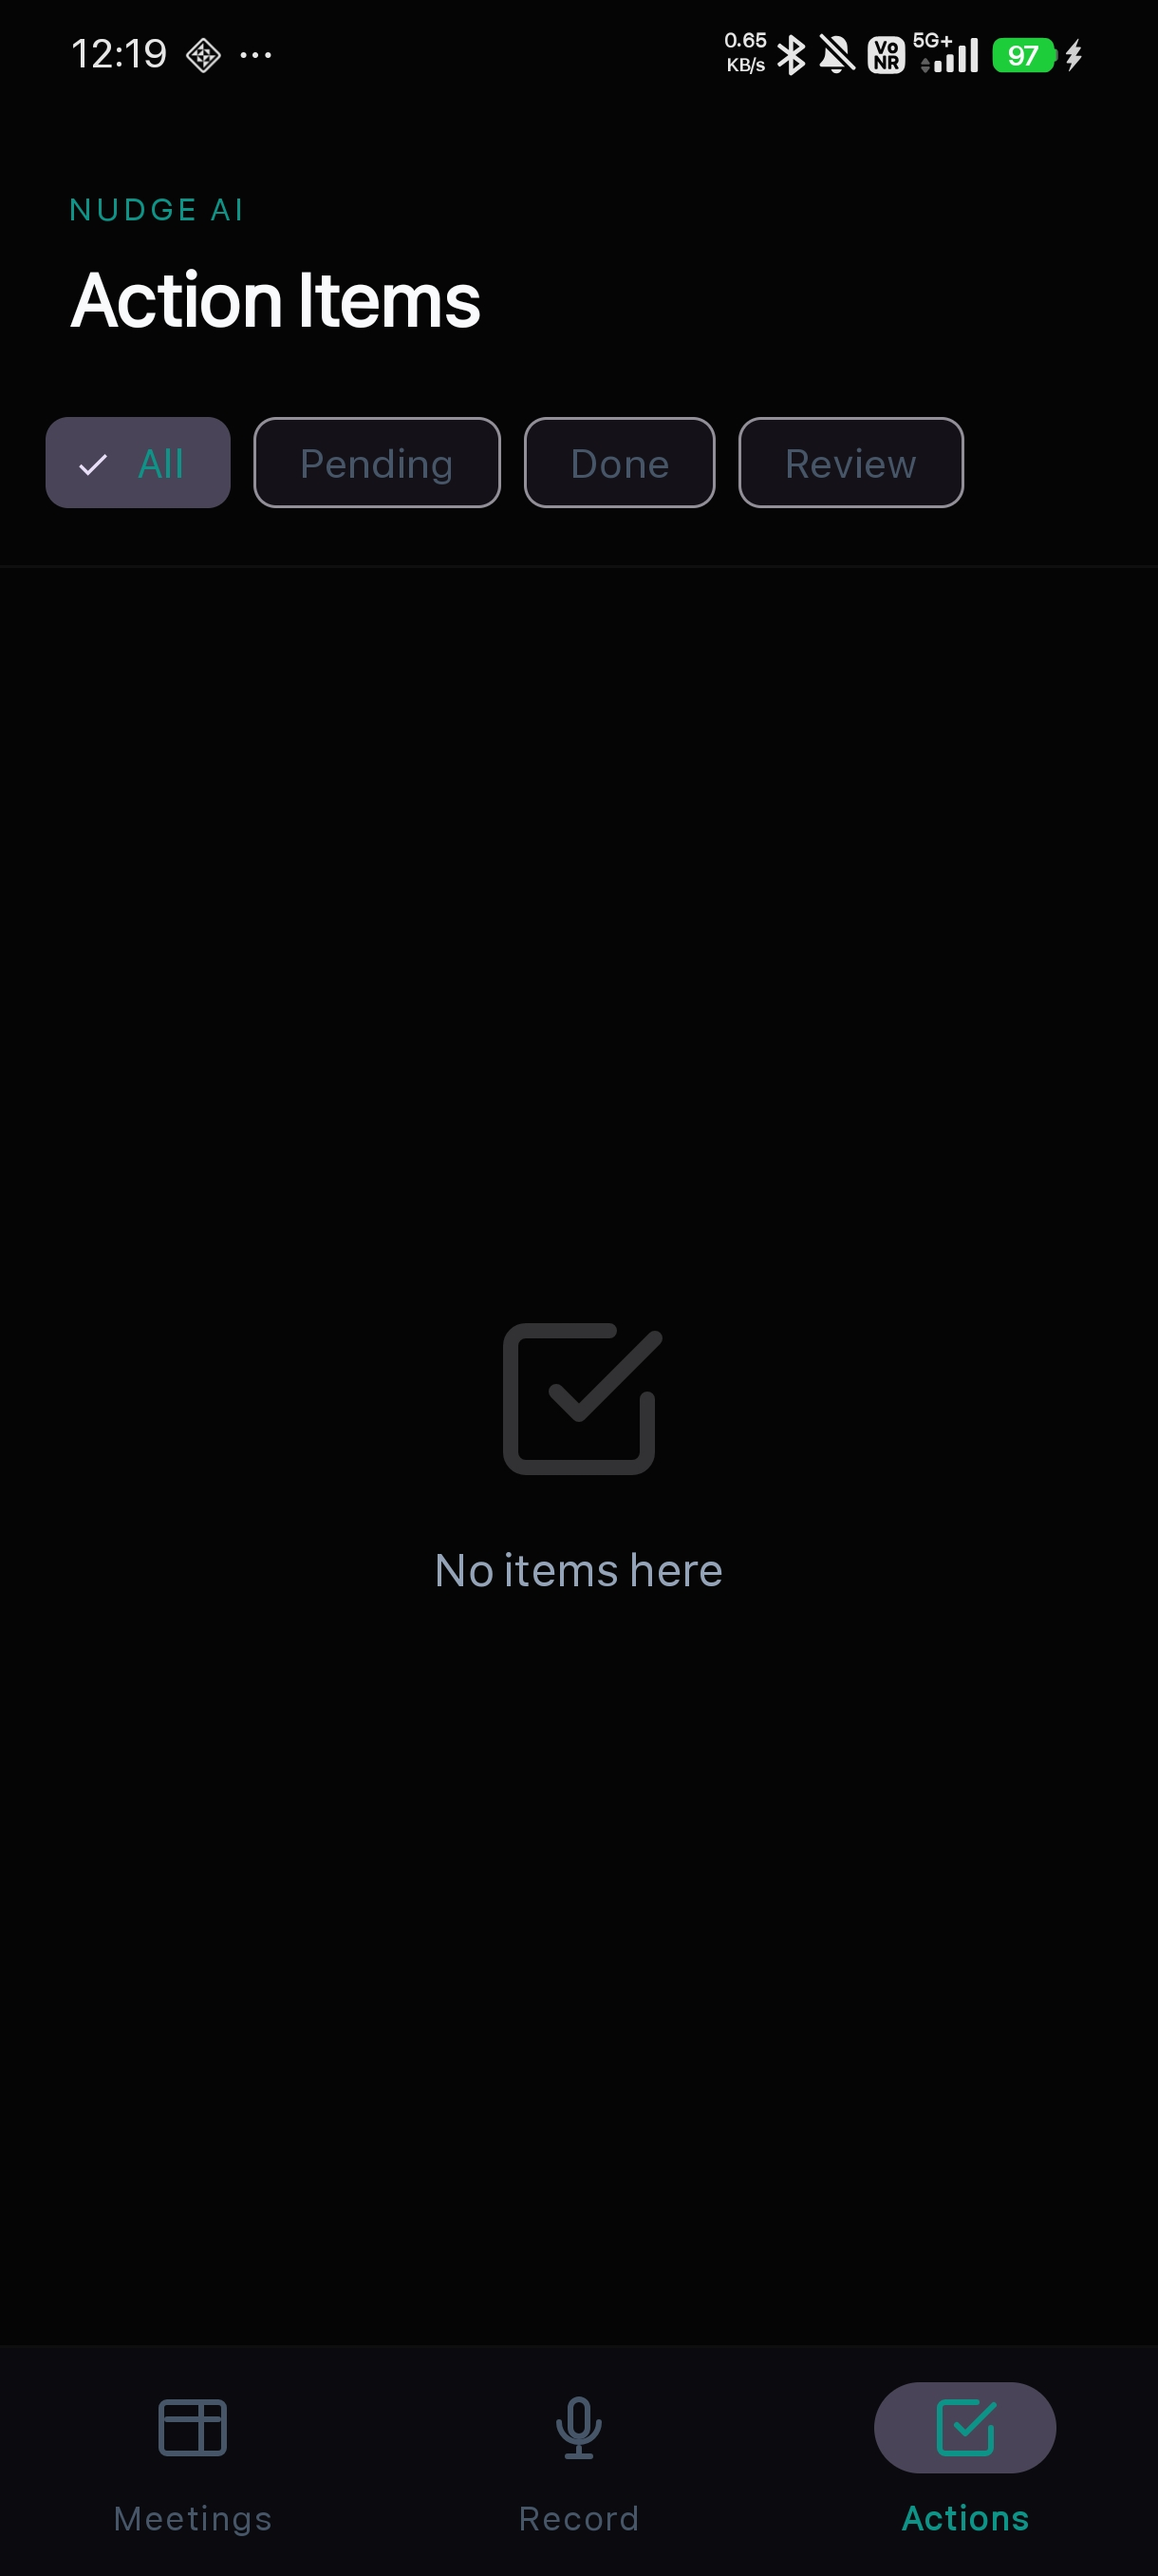
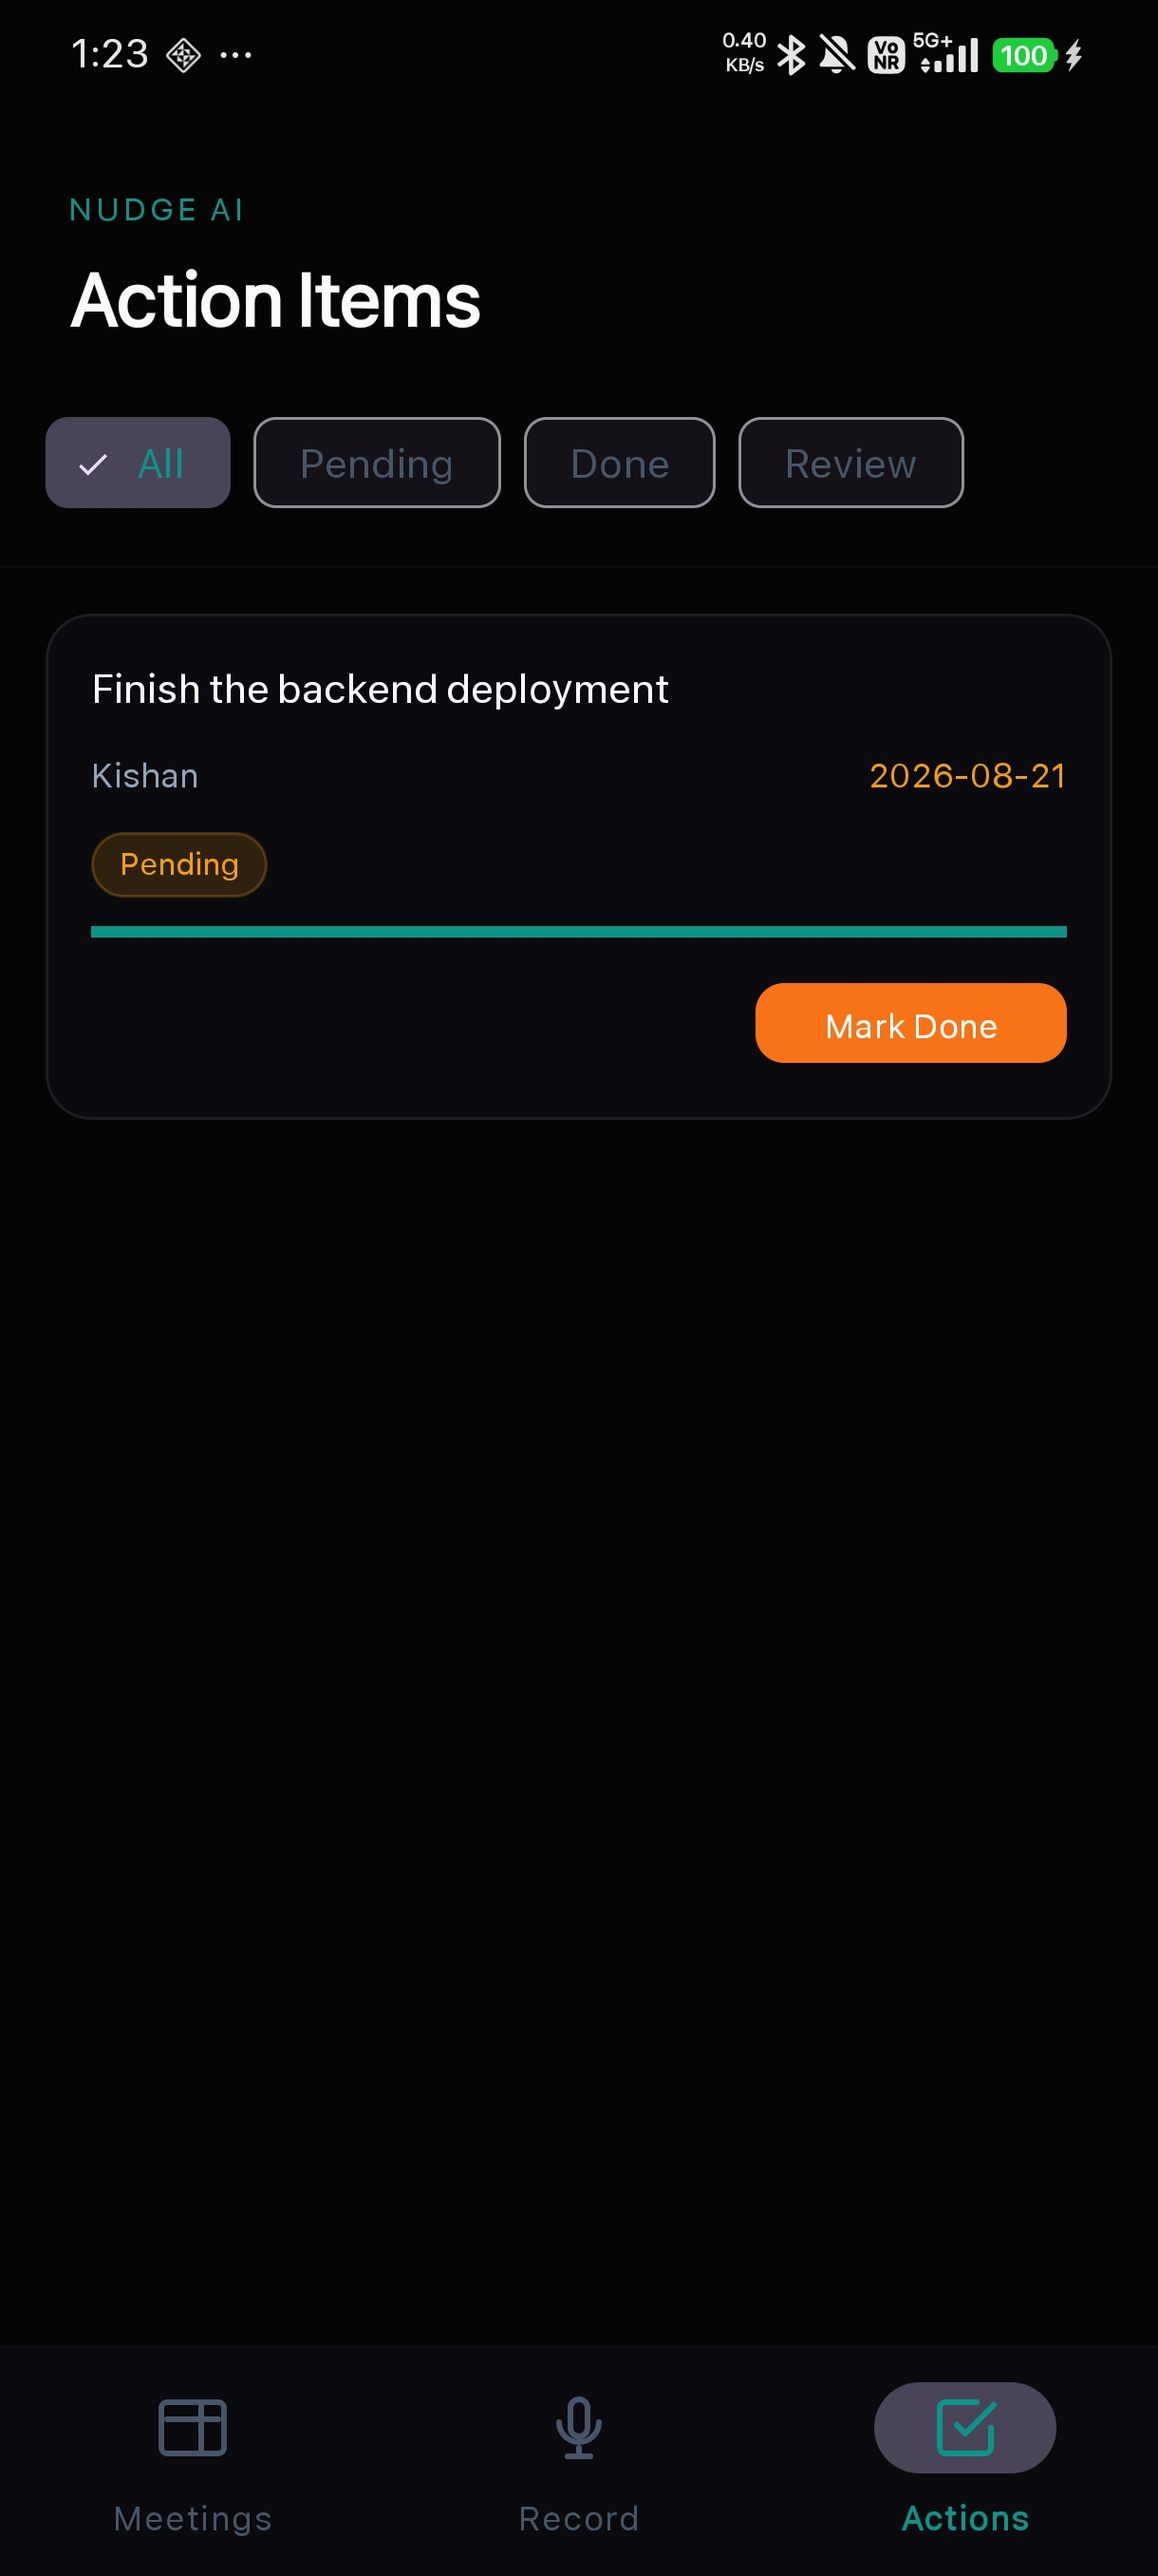
docs: update README with 4-screenshot mobile showcase and new capabilities
- Replaced empty state screenshot with live Meeting Intelligence and Action Items screens
- Documented Android Foreground Audio Recording Service and Home Screen AppWidget
- Documented meeting title customization and updated API endpoints
- Updated tech stack badges to reflect GPT-OSS-120B multi-agent LLM

diff --git a/README.md b/README.md
@@ -14,9 +14,10 @@
   </a>
   <br/><br/>
 
-  <img src="https://img.shields.io/badge/Android-Kotlin%20%7C%20WorkManager-3DDC84?style=flat-square&logo=android" />
+  <img src="https://img.shields.io/badge/Android-Kotlin%20%7C%20Foreground%20Service-3DDC84?style=flat-square&logo=android" />
+  <img src="https://img.shields.io/badge/AppWidget-Home%20Screen%20Quick%20Record-00A896?style=flat-square" />
   <img src="https://img.shields.io/badge/Backend-FastAPI%20%7C%20Python%203.11-009688?style=flat-square&logo=fastapi" />
-  <img src="https://img.shields.io/badge/AI%20Engine-LangGraph%20%7C%20Groq%20Llama%203.3-6366F1?style=flat-square" />
+  <img src="https://img.shields.io/badge/AI%20Engine-LangGraph%20%7C%20Groq%20GPT--OSS--120B-6366F1?style=flat-square" />
   <img src="https://img.shields.io/badge/STT-Groq%20Whisper%20Large%20v3-00A896?style=flat-square" />
   <img src="https://img.shields.io/badge/Database-MongoDB%20Atlas-47A248?style=flat-square&logo=mongodb" />
   <img src="https://img.shields.io/badge/Frontend-React%20%7C%20Vite-61DAFB?style=flat-square&logo=react" />
@@ -30,9 +31,9 @@
 
 ## Mobile Application
 
-| Meetings List | Audio Recording | Action Items | Empty State |
+| Meetings Dashboard | Audio Recording | Meeting Intelligence | Action Items Tracker |
 |:---:|:---:|:---:|:---:|
-| <img src="screenshots/home.png" width="220" alt="Meetings List" /> | <img src="screenshots/record.png" width="220" alt="Record Meeting" /> | <img src="screenshots/action_items.png" width="220" alt="Action Items" /> | <img src="screenshots/home_empty.png" width="220" alt="Empty State" /> |
+| <img src="screenshots/home.png" width="220" alt="Meetings Dashboard" /> | <img src="screenshots/record.png" width="220" alt="Record Meeting" /> | <img src="screenshots/detail.png" width="220" alt="Meeting Intelligence" /> | <img src="screenshots/action_items.png" width="220" alt="Action Items Tracker" /> |
 
 ---
 
@@ -40,12 +41,14 @@
 
 Meetings produce critical decisions and commitments, but after calls conclude, action items frequently become buried in transcripts and forgotten without manual follow-up.
 
-Nudge AI addresses this through **personal task accountability** and **automated follow-through**:
+Nudge AI addresses this through **personal task accountability** and **autonomous follow-through**:
 
-1. **Personal Task Focus:** Action items assigned to the user are automatically flagged (`is_mine=True`), allowing instant visibility into individual deliverables without navigating full meeting transcripts.
-2. **Local and Push Notifications:** Android WorkManager monitors approaching deadlines and issues proactive notifications 24 hours and 2 hours in advance.
-3. **Escalating Follow-Up Loop:** Uncompleted tasks trigger structured follow-up sequences (gentle $\rightarrow$ firm $\rightarrow$ urgent) via email and Slack until marked complete.
-4. **Human-in-the-Loop (HITL):** Extractions with confidence $< 0.7$ are flagged for one-tap approval before automated reminders are scheduled.
+1. **Personal Task Focus:** Action items assigned to the user are automatically flagged (`is_mine=True`), providing instant clarity on individual deliverables without having to parse full meeting transcripts.
+2. **Background Recording & Home Widget:** An Android Foreground Service enables continuous meeting capture while multitasking or when the screen is locked, complemented by a 1-tap Home Screen AppWidget.
+3. **Multi-Agent Extraction Engine:** LangGraph orchestrates specialized agents to parse transcripts, extract explicit decisions, assign team roster members, resolve relative deadlines, and generate executive summaries.
+4. **Proactive Deadline Alerts:** Android WorkManager monitors approaching deadlines and issues local notifications 24 hours and 2 hours in advance.
+5. **Escalating Reminder Sequences:** Unresolved action items trigger structured follow-up sequences (gentle to firm to urgent) via email and Slack until marked complete.
+6. **Human-in-the-Loop (HITL):** Extractions with confidence < 0.7 are flagged for one-tap approval before automated reminders are scheduled.
 
 ---
 
@@ -54,14 +57,15 @@ Nudge AI addresses this through **personal task accountability** and **automated
 ```mermaid
 graph TD
     subgraph Clients ["Client Layer"]
-        Android["Android App (Kotlin + WorkManager)"]
-        Web["React Web Dashboard"]
+        Android["Android App (Kotlin + Foreground Service)"]
+        Widget["Home Screen Quick Record Widget"]
+        Web["React Web Command Center"]
         Ext["Chrome Extension (MV3 Offscreen)"]
     end
 
     subgraph API ["Backend Layer (FastAPI on Render)"]
         UploadRouter["POST /api/upload"]
-        MeetingsRouter["GET/POST /api/meetings"]
+        MeetingsRouter["GET/POST/PATCH /api/meetings"]
         AIRouter["GET/PATCH /api/action-items"]
         Scheduler["APScheduler Background Worker"]
     end
@@ -78,7 +82,8 @@ graph TD
         RAG["Nomic Semantic Embeddings"]
     end
 
-    Android -->|Record M4A| UploadRouter
+    Android -->|Background M4A Stream| UploadRouter
+    Widget -->|1-Tap Toggle| Android
     Ext -->|Capture WebM| UploadRouter
     Web <-->|REST API| MeetingsRouter
 
@@ -96,9 +101,12 @@ graph TD
 
 ## Core Capabilities
 
-- **Multi-Platform Audio Ingestion:** Capture audio natively via Android (`MediaRecorder`), upload files on the web dashboard (up to 200MB chunked), or record live tab audio using the Chrome Extension.
-- **High-Throughput Transcription:** Leverages Groq Whisper Large v3 with automated 20MB chunking for rapid speech-to-text processing.
-- **Structured Multi-Agent Extraction:** LangGraph orchestrates specialized extraction agents with Pydantic schemas to output decisions, assignees, and confidence scores.
+- **Background Audio Recording Service:** Android `ForegroundService` with `FOREGROUND_SERVICE_MICROPHONE` ensures uninterrupted recording while switching apps, taking notes, or locking the device. Includes persistent notification controls with a live duration timer and Stop action.
+- **Home Screen Quick Record AppWidget:** Dedicated Android widget allowing one-tap start and stop recording directly from the launcher with dynamic duration sync.
+- **Meeting Title Customization:** Full inline and dialog editing support (`PATCH /api/meetings/{id}`) that synchronizes title updates across MongoDB, RAG semantic search embeddings, and client views.
+- **Multi-Platform Audio Ingestion:** Capture audio natively via Android, upload audio files on the web dashboard (up to 200MB chunked), or record live tab audio using the Chrome Extension.
+- **High-Throughput Transcription:** Leverages Groq Whisper Large v3 with automated chunking for low-latency speech-to-text processing.
+- **Structured Multi-Agent Extraction:** LangGraph orchestrates specialized agents with Pydantic schemas to output decisions, assignees, normalized ISO deadlines, and confidence scores.
 - **Natural Language Date Normalization:** Converts relative meeting phrasing (*"by next Tuesday afternoon"*, *"by Friday morning"*) into normalized ISO timestamps.
 - **Automated Escalation Workflows:** Scheduled background jobs dispatch escalating reminder notifications via email and Slack when deadlines approach.
 - **Fault-Tolerant Infrastructure:** Built-in exponential backoff for Groq rate limits, SHA-256 audio file deduplication, and automated Render keepalive monitoring.
@@ -109,9 +117,9 @@ graph TD
 
 | Layer | Technologies |
 |---|---|
-| **Mobile (Android)** | Kotlin, Material3, View Binding, Retrofit2, Coroutines, AndroidX WorkManager, Notifications API |
+| **Mobile (Android)** | Kotlin, Material3, View Binding, AppWidget API, Foreground Service, Retrofit2, Coroutines, WorkManager |
 | **Backend** | Python 3.11, FastAPI, LangGraph, LangChain, Pydantic v2, APScheduler, PyMongo |
-| **AI / ML** | Groq (`llama-3.3-70b-versatile`, `whisper-large-v3-turbo`), Nomic Embeddings |
+| **AI / ML** | Groq (`openai/gpt-oss-120b`, `whisper-large-v3-turbo`), Nomic Embeddings |
 | **Frontend** | React 18, Vite, React Router v7, Lucide Icons, React Hot Toast |
 | **Database** | MongoDB Atlas M0 (Optimized document schema, metadata-only storage) |
 | **Infrastructure** | Render (API), Vercel (Web Dashboard), GitHub Actions (Keepalive Monitoring) |
@@ -163,6 +171,7 @@ npm run dev
 | `POST` | `/api/upload` | Upload audio file (`.m4a`, `.mp3`, `.webm`) and trigger transcription |
 | `GET` | `/api/meetings` | Retrieve paginated list of meetings with summaries and durations |
 | `GET` | `/api/meetings/{id}` | Retrieve complete meeting details, transcript, and action items |
+| `PATCH` | `/api/meetings/{id}` | Update meeting title across database and vector embeddings |
 | `POST` | `/api/meetings/{id}/process` | Execute LangGraph extraction and assignment pipeline |
 | `DELETE` | `/api/meetings/{id}` | Cascade delete meeting, associated action items, and embeddings |
 | `GET` | `/api/action-items?mine=true` | Query action items filtered by assignee status |

diff --git a/screenshots/README.md b/screenshots/README.md
@@ -4,10 +4,9 @@ Screenshots in this directory and their mapping in the main documentation:
 
 | Filename | Description | Used in README |
 |---|---|---|
-| `web_preview.png` | Web Platform Hero & Overview Banner | Yes |
-| `home.png` | Android Home / Meetings List Screen | Yes |
+| `web_preview.png` | Web Platform Command Center Banner | Yes |
+| `home.png` | Android Meetings Dashboard Screen | Yes |
 | `record.png` | Android Audio Recording Screen | Yes |
-| `action_items.png` | Android Action Items & Filter Screen | Yes |
-| `home_empty.png` | Android Empty State Screen | Yes |
-| `detail.png` | Android Meeting Detail (Summary & Decisions) | Optional |
+| `detail.png` | Android Meeting Intelligence (Summary & Decisions) | Yes |
+| `action_items.png` | Android Action Items Tracker Screen | Yes |
 | `logo.svg` | Official Vector Brand Logo | Yes |
